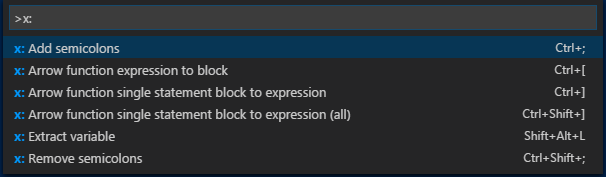
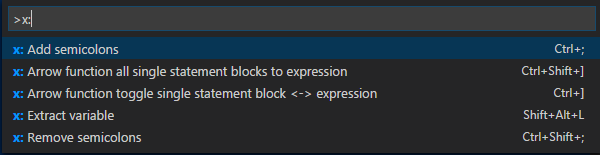
add arrow funtion toggle

Changed region(s): [[0.0, 0.0, 1.0, 1.0], [0.0, 0.8516, 0.24, 0.929]]

diff --git a/src/extension.ts b/src/extension.ts
@@ -3,13 +3,13 @@
  */
 
 import * as vscode from 'vscode';
-import {singleStatementBlockToExpression, expressionToBlock} from './arrow-function-vscode';
+import {toggleSingleStatementBlockExpression, singleStatementBlockToExpression, expressionToBlock} from './arrow-function-vscode';
 import {extractVariable} from './extract-variable';
 import {semicolons} from './semicolon-vscode';
 
 export function activate(context: vscode.ExtensionContext) {
     context.subscriptions.push(vscode.commands.registerCommand('extension.refactorix.ExtractVariable', extractVariable));
-    context.subscriptions.push(vscode.commands.registerCommand('extension.refactorix.ArrowFunction.SingleStatementBlockToExpression', () => singleStatementBlockToExpression(false)));
+    context.subscriptions.push(vscode.commands.registerCommand('extension.refactorix.ArrowFunction.ToggleSingleStatementBlockExpression', toggleSingleStatementBlockExpression));
     context.subscriptions.push(vscode.commands.registerCommand('extension.refactorix.ArrowFunction.SingleStatementBlockToExpressionAll', () => singleStatementBlockToExpression(true)));
     context.subscriptions.push(vscode.commands.registerCommand('extension.refactorix.ArrowFunction.ExpressionToBlock', expressionToBlock));
     context.subscriptions.push(vscode.commands.registerCommand('extension.refactorix.Semicolons.Add', () => semicolons(true)));

diff --git a/src/arrow-function-vscode.ts b/src/arrow-function-vscode.ts
@@ -3,17 +3,23 @@ import * as ts from 'typescript';
 import {singleStatementBlockToExpressions, expressionToBlock as coreExpressionToBlock} from './arrow-function';
 import {getIndentAtLine, getTabs, changeToRange, selectionToSpan, createSourceFileFromActiveEditor} from './refactor-vscode';
 
-export function expressionToBlock() {
+export function toggleSingleStatementBlockExpression() {
+    if (!expressionToBlock()) {
+        singleStatementBlockToExpression(false);
+    }
+}
+
+export function expressionToBlock(): boolean {
     const source = createSourceFileFromActiveEditor();
     if (!source) {
-        return;
+        return false;
     }
     const editor = source.editor;
     const {document, selection} = editor;
 
     const change = coreExpressionToBlock(source.sourceFile, selectionToSpan(document, selection), getIndentAtLine(document, selection.start.line), getTabs(editor, 1));
     if (!change) {
-        return;
+        return false;
     }
 
     editor.edit(builder => builder.replace(changeToRange(document, change), change.newText))
@@ -22,6 +28,8 @@ export function expressionToBlock() {
                 editor.selection = selection;
             }
         });
+
+    return true;
 }
 
 export function singleStatementBlockToExpression(replaceAll: boolean) {

diff --git a/README.md b/README.md
@@ -71,13 +71,8 @@ Insert this into your `keybindings.json`:
     "when": "editorTextFocus"
 },
 {
-    "key": "ctrl+[",
-    "command": "extension.refactorix.ArrowFunction.ExpressionToBlock",
-    "when": "editorTextFocus"
-},
-{
     "key": "ctrl+]",
-    "command": "extension.refactorix.ArrowFunction.SingleStatementBlockToExpression",
+    "command": "extension.refactorix.ArrowFunction.ToggleSingleStatementBlockExpression",
     "when": "editorTextFocus"
 },
 {
